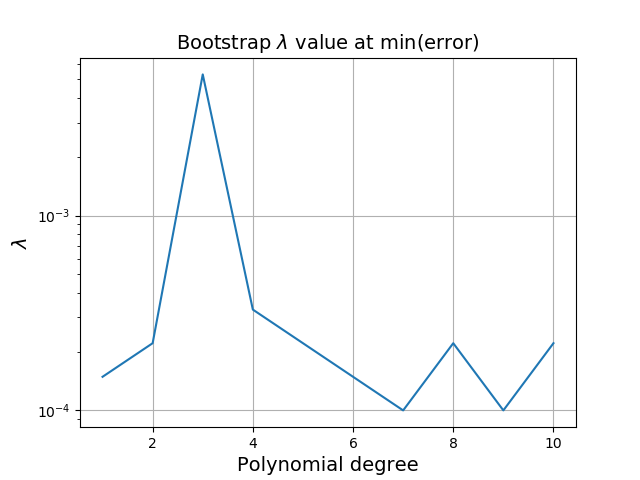
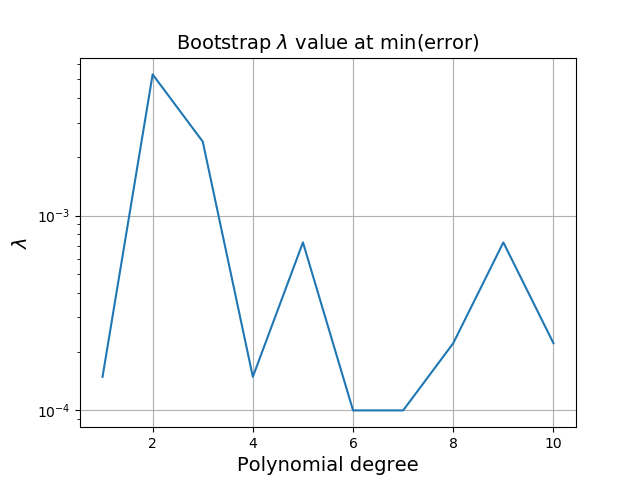
testing noise

diff --git a/src/main.py b/src/main.py
@@ -9,6 +9,7 @@ import pandas as pd
 import matplotlib.pyplot as plt
 from sklearn.model_selection import train_test_split
 from sklearn.model_selection import KFold
+import sklearn.linear_model as skl
 from sklearn.preprocessing import StandardScaler
 
 from sklearn.utils import resample
@@ -31,7 +32,7 @@ data = 'terrain' if run_mode in ['f', 'g'] else data
 
 # Common variables for both parts for easy adjusting
 p_dict = {'a': 5, 'b': 10, 'c': 5, 'd': 10,
-          'e': 5, 'f': 10, 'g': 5, 'h': 10}
+          'e': 10, 'f': 10, 'g': 5, 'h': 10}
 scale_dict = {'a': [True, False], 'b': [True, False], 'c': [True, False], 'd': [True, False],
               'e': [True, False], 'f': [True, False], 'g': [True, False], 'h': [True, False]}
 p = p_dict[run_mode]
@@ -39,15 +40,16 @@ scale = scale_dict[run_mode]
 
 test_size = 0.2
 fig_path = '../figures/'
+data_path = '../datafiles/'
 
 OLSmethod = 5
 
 if data == 'franke':
     # Creating data set for the Franke function tasks
     np.random.seed(4155)
-    n_franke = 13  # number of samples of x/y
+    n_franke = 32  # number of samples of x/y
     N = n_franke**2  # Total number of samples n*2
-    noise = 0.0  # 2
+    noise = 0.1  # 2
     p = p_dict[run_mode]  # degree of polynomial for the task
 
     # Randomly generated meshgrid
@@ -80,8 +82,6 @@ if run_mode == 'a':
     X_train_scaled = fun.scale_X(X_train, scale)
     X_test_scaled = fun.scale_X(X_test, scale)
 
-    print('Meow ', np.array_equal(X_train_scaled, X_train))
-
     # Ordinary Least Squares
     OLS = reg.OrdinaryLeastSquares()
     betaOLS = OLS.fit(X_train_scaled, z_train)
@@ -99,7 +99,9 @@ if run_mode == 'a':
 
 if run_mode == 'b':
     N_samples = N  # number of samples per bootstrap
-    N_bootstraps = 100  # number of resamples
+#    N_bootstraps = 100  # number of resamples
+    N_bootstraps = int(N/2)  # number of resamples
+#    N_bootstraps = N
 
     # Splitting into train and test data
     X_train, X_test, z_train, z_test = fun.split_data(X, z_ravel, test_size=test_size)
@@ -200,7 +202,9 @@ if run_mode == 'b':
 
 #    fun.plot_MSE_test_OLS_fit(polydegree, trainError, testError, n_franke, test_size, noise, OLSmethod)
 
-    fun.plot_bias_variance(polydegree, bs_mean_OLS, bs_bias_OLS, bs_var_OLS, 'trade-off', fig_path, run_mode)
+    fun.plot_bias_variance(polydegree, bs_mean_OLS, bs_bias_OLS, bs_var_OLS,
+                           'trade-off, $N$=%d, $N_{bs}$=%d' % (N, N_bootstraps),
+                           'N%d_Nbs%d' % (N, N_bootstraps), fig_path, run_mode)
 
     plt.show()
 
@@ -251,11 +255,11 @@ if run_mode == 'c':
 
 if run_mode == 'd':
     # Setting up for Ridge regression
-    nlambdas = 30#100
+    nlambdas = 30  # 100
     lambdas = np.logspace(-4, 1, nlambdas)
 
     # Bootstrap
-    N_bootstraps = 100
+    N_bootstraps = int(N/2)  # 100
 
     # Cross-validation
     K = 5
@@ -309,7 +313,7 @@ if run_mode == 'd':
             Ridge.set_lambda(lmb)
 
             if i % 10 == 0:
-                print('i = %d, lmb= %.3f' % (i, lmb))
+                print('i = %d, lmb= %.3e' % (i, lmb))
 
             # Bootstrap
             BS = res.Bootstrap(X_train_bs, X_test_bs, z_train, z_test, Ridge, fun.mean_squared_error)
@@ -351,7 +355,9 @@ if run_mode == 'd':
 
     # Bootstrap Plots
     fun.plot_bias_variance(polydegree, bs_error_optimal, bs_bias_optimal, bs_var_optimal,
-                           'Ridge regression', fig_path, run_mode)
+                           'Ridge regression, $N$=%d, $N_{bs}$=%d' % (N, N_bootstraps),
+                           'N%d_Nbs%d' % (N, N_bootstraps), fig_path, run_mode)
+
     fun.plot_degree_lambda(polydegree, bs_lmb_optimal, 'Bootstrap $\lambda$ value at min(error)',
                            'bootstrap', fig_path, run_mode)
 
@@ -371,27 +377,91 @@ if run_mode == 'd':
     fun.plot_heatmap(lambdas, polydegree, cv_error_Ridge, 'CV + Ridge, MSE',
                      'cv_ridge_error', fig_path, run_mode)
 
-
-    '''
-    fig = plt.figure()
-#    p_mesh, lmb_mesh = np.meshgrid(polydegree, lambdas)
-    heatmap = plt.pcolor(lambdas, polydegree, bs_error_Ridge)
-    plt.xlabel(r'$\lambda$')
-    plt.ylabel('Polynomial degree')
-    fig.colorbar(heatmap)#bs_error_Ridge)
-#    plt.pcolor(bs_error_Ridge)
-    '''
     plt.show()
 
 
 if run_mode == 'e':
-    pass
+    # Lambdas / alphas for LASSO regression
+    nlambdas = 15#30  # 100
+    lambdas = np.logspace(-4, 1, nlambdas)
+
+    # Bootstrap and cross-validation
+    N_bootstraps = int(N/2)
+    K = 5
+
+    # Splitting into train and test data
+    X_train, X_test, z_train, z_test = fun.split_data(X, z_ravel, test_size=test_size)
+
+    # Scaling the data
+    X_train_scaled = fun.scale_X(X_train, scale)
+    X_test_scaled = fun.scale_X(X_test, scale)
+    X_scaled = fun.scale_X(X)
+
+    # Bootstrap arrays
+    bs_error_Lasso = np.zeros((p, nlambdas))
+    bs_var_Lasso = np.zeros((p, nlambdas))
+    bs_bias_Lasso = np.zeros((p, nlambdas))
+
+    bs_error_optimal = np.zeros(p)
+    bs_var_optimal = np.zeros(p)
+    bs_bias_optimal = np.zeros(p)
+    bs_lmb_optimal = np.zeros(p)
+
+    # Cross-validation arrays
+    cv_error_Lasso = np.zeros((p, nlambdas))
+    cv_error_optimal = np.zeros(p)
+    cv_lmb_optimal = np.zeros(p)
+
+    polydegree = np.arange(1, p + 1)
+    for degree in range(1, p + 1):
+        n_poly = fun.polynom_N_terms(degree)
+        print('p = %2d, np = %3d' % (degree, n_poly))
+
+        X_train_bs = np.zeros((len(X_train_scaled), n_poly))
+        X_test_bs = np.zeros((len(X_test_scaled), n_poly))
+        X_cv = np.zeros((len(X_scaled), n_poly))
+
+        X_train_bs[:, :] = X_train_scaled[:, 0:n_poly]
+        X_test_bs[:, :] = X_test_scaled[:, 0:n_poly]
+        X_cv[:, :] = X_scaled[:, 0:n_poly]
+
+        for i in range(nlambdas):
+            lmb = lambdas[i]
+
+            if i % 10 == 0:
+                print('i = %d, lmb= %.3e' % (i, lmb))
+
+            Lasso = skl.Lasso(alpha=lmb, max_iter=100000)
+
+            # Bootstrap
+            BS = res.Bootstrap(X_train_bs, X_test_bs, z_train, z_test, Lasso, fun.mean_squared_error)
+            error_, var_, bias_ = BS.compute(N_bootstraps)
+            bs_error_Lasso[degree-1, i] = error_
+            bs_var_Lasso[degree-1, i] = var_
+            bs_bias_Lasso[degree-1, i] = bias_
+
+            # Cross validation
+            CV = res.CrossValidation(X_cv, z_ravel, Lasso, fun.mean_squared_error)
+            cv_error_Lasso[degree-1, i] = CV.compute(K)
+
+    fun.plot_heatmap(lambdas, polydegree, bs_error_Lasso, 'Bootstrap + Lasso, MSE',
+                     'bs_lasso_error', fig_path, run_mode)
+
+    fun.plot_heatmap(lambdas, polydegree, cv_error_Lasso, 'Cross-validation + Lasso, MSE',
+                     'cv_lasso_error', fig_path, run_mode)
+
+    plt.show()
 
 
 if data == 'terrain':
     terrain_data = 'SRTM_data_Norway_2.tif'
+    data_path = '../datafiles/'
+    terrain_data = 'SRTM_data_Norway_2.tif'
+    fun.read_terrain(data_path + terrain_data)
 
 if run_mode == 'f':
+    # fetch terrain data and plot it i guess
     pass
+
 if run_mode == 'g':
     pass

diff --git a/src/functions.py b/src/functions.py
@@ -160,11 +160,11 @@ def SVDinv(A):
     return np.matmul(V,np.matmul(invD,UT))
 
 
-def read_terrain(filename):
+def read_terrain(filename, N):
     # Load the terrain
     terrain = imread(filename)
 
-    N = 169#1000
+#    N = 1000
     m = 5  # polynomial order
     print(terrain.shape)
     terrain = terrain[:N, :N]
@@ -177,13 +177,14 @@ def read_terrain(filename):
 #    X = generate_polynomial(x_mesh, y_mesh, m)
 
     # Show the terrain
+    '''
     plt.figure()
     plt.title('Terrain over Norway 2')
     plt.imshow(terrain, cmap='gray')
     plt.xlabel('X')
     plt.ylabel('Y')
     plt.show()
-
+    '''
 
 ###########################################################
 ############# Plotting and printing functions #############
@@ -245,19 +246,19 @@ def plot_MSE_test_OLS_fit(polydegree, train_MSE, test_MSE, n_a, test_size, noise
     plt.savefig('../figures/MSE_train_test_method%d.png' % OLSmethod)
 
 
-def plot_bias_variance(polydegree, error, bias, variance, title_mod, fig_path, task, fs=14):
+def plot_bias_variance(polydegree, error, bias, variance, title_mod, save, fig_path, task, fs=14):
     fig = plt.figure()
     plt.plot(polydegree, error, label='Error')
     plt.plot(polydegree, bias, label='Bias')
     plt.plot(polydegree, variance, label='Variance')
     plt.xlabel('Polynomial degree', fontsize=fs)
     plt.ylabel('Mean squared error', fontsize=fs)
-    plt.title('Bias variance %s' % title_mod, fontsize=fs)
+    plt.title(r'Bias variance %s' % title_mod, fontsize=fs)
     plt.grid('on')
     plt.legend()
     plt.ylim([0.0, 0.02])
 #    plt.yscale('log')
-    plt.savefig(fig_path+'task_%s/bias_variance.png' % task)
+    plt.savefig(fig_path+'task_%s/bias_variance_%s.png' % (task, save))
 
 
 def plot_MSE_SIMPLE(polydegree, train_MSE, test_MSE, n_a, test_size, fs=14):
@@ -332,14 +333,14 @@ def plot_heatmap(x, y, z, title, save, fig_path, task, fs=14):
     step = int(loc[1]-loc[0])
     locx = loc + step/2
     print(locx, labels)
-    plt.xticks(loc, ['%.2f' % x[int(i)] for i in range(int(loc[0]), int(loc[-1]), step)], rotation=90)
+    plt.xticks(loc, ['%.2e' % x[int(i)] for i in range(int(loc[0]), int(loc[-1]), step)], rotation=90)
 
     loc, labels = plt.yticks()
     #locy = loc + (loc[1]-loc[0])/2
     step = int(loc[1]-loc[0])
     locy = loc + step/2
 
-    plt.yticks(loc, ['%.2f' % y[int(i)] for i in range(int(loc[0]), int(loc[-1]), step)], rotation=90)
+    plt.yticks(loc, ['%d' % y[int(i)] for i in range(int(loc[0]), int(loc[-1]), step)], rotation=90)
 
 #    ax.set_xticks(np.arange(z.shape[0]) + .5, minor=False)
 #    ax.set_yticks(np.arange(z.shape[1]) + .5, minor=False)
@@ -364,7 +365,5 @@ def plot_lambda_mse(lambdas, mse, title, save, fig_path, task, fs=14):
 
 
 if __name__ == '__main__':
-    # TODO: make it plot the franke function? AND TERRAIN DATA :D
-    data_path = '../datafiles/'
-    terrain_data = 'SRTM_data_Norway_2.tif'
-    read_terrain(data_path + terrain_data)
+    # TODO: make it plot the franke function?
+    pass

diff --git a/src/resampling_methods.py b/src/resampling_methods.py
@@ -25,14 +25,14 @@ class Bootstrap:
         statistic = np.zeros(N_bootstraps)
 #        bias = np.zeros(N_resamples)
 
-        tot_unique = np.zeros(N_bootstraps)
-        n_samp = np.zeros(N_bootstraps)
+#        tot_unique = np.zeros(N_bootstraps)
+#        n_samp = np.zeros(N_bootstraps)
         for i in range(N_bootstraps):
 #            print(1)
             X_new, y_new = self.resample(self.X_train, self.y_train)
 #            X_new, y_new = resample(self.X_train, self.y_train)#, n_samples=N_bs)
-            tot_unique[i] = len(np.unique(y_new))
-            n_samp[i] = len(X_new[:, -1])
+#            tot_unique[i] = len(np.unique(y_new))
+#            n_samp[i] = len(X_new[:, -1])
 #            X_new = self.X_train
 #            y_new = self.y_train
 

diff --git a/src/regression_methods.py b/src/regression_methods.py
@@ -37,6 +37,8 @@ class OrdinaryLeastSquares:
 
         sigma2 = 1/(N-p-1)*np.sum((y-ytilde)**2)
         var_beta = np.diagonal(np.linalg.pinv(X.T @ X)) * sigma2
+
+        print(sigma2, var_beta)
         conf = 2*np.sqrt(var_beta)
 
         return conf
